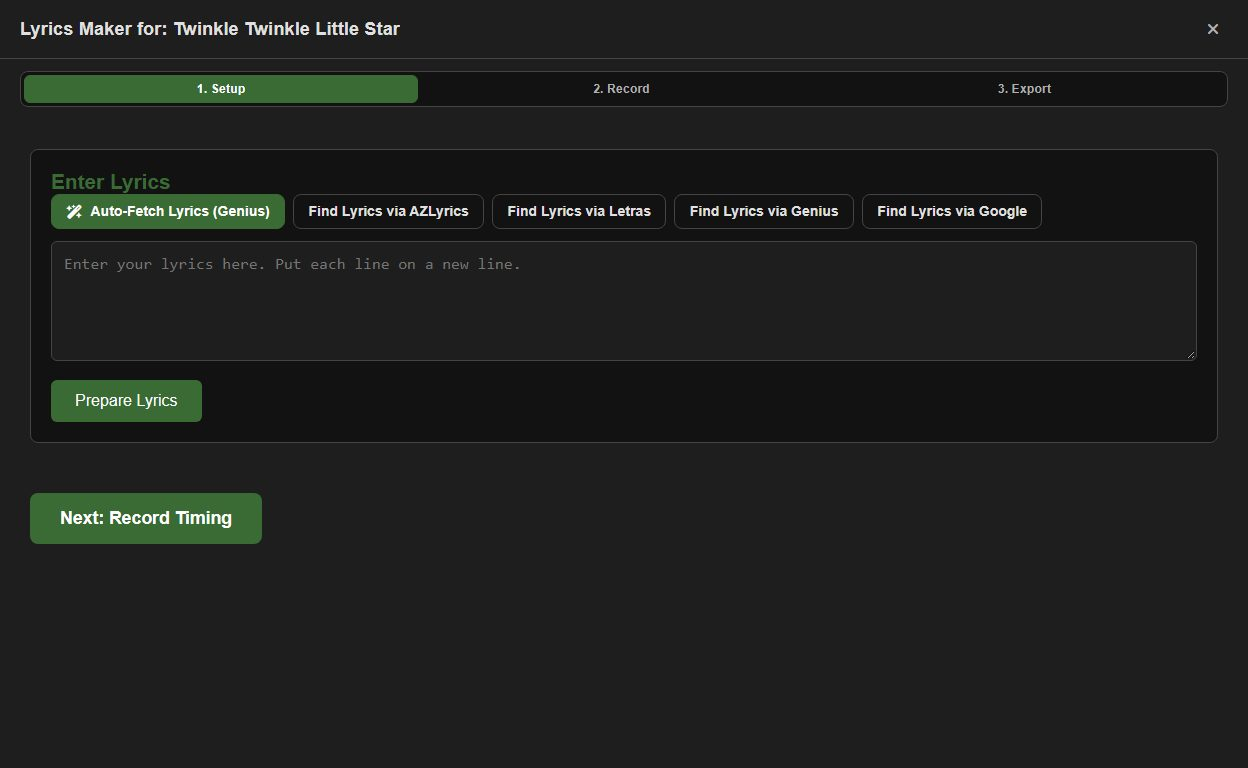
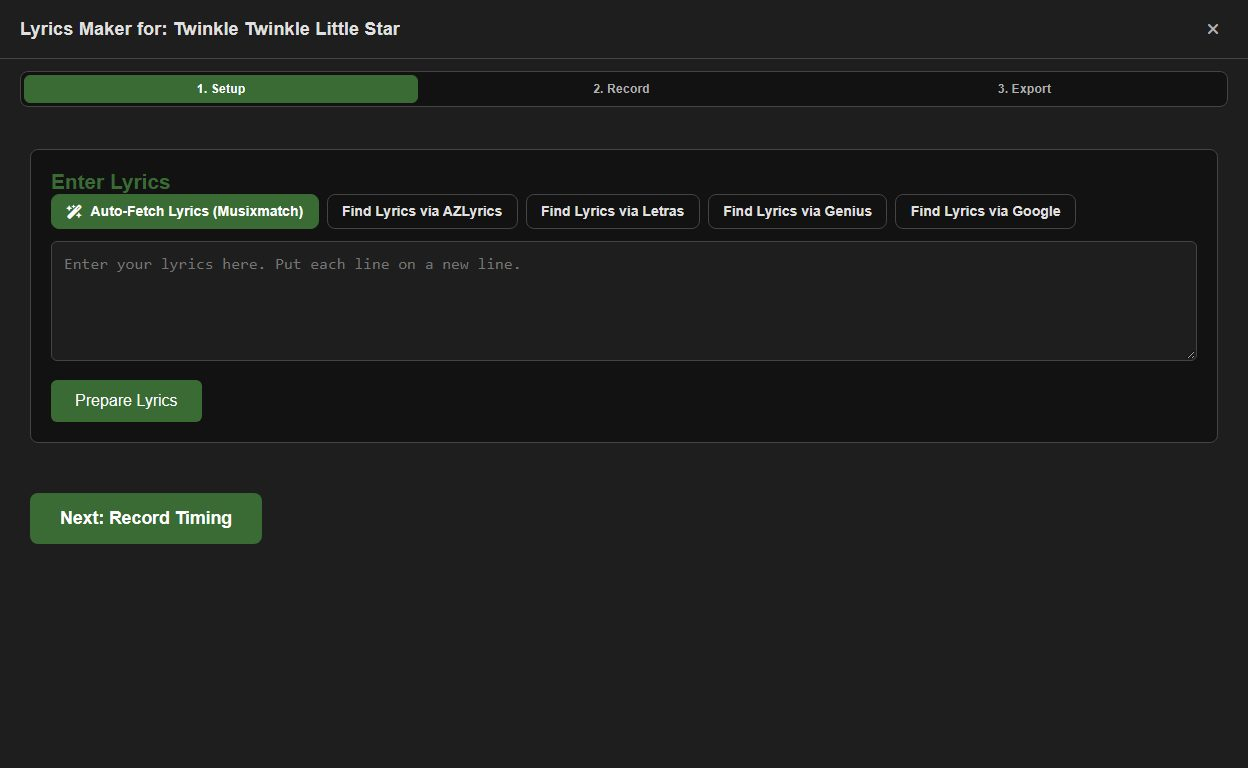
v76.5.0: Replace the broken Genius lyrics API with Musixmatch

Changed region(s): [[0.1562, 0.25, 0.8438, 0.3125]]

diff --git a/api/musixmatch.js b/api/musixmatch.js
@@ -1,0 +1,199 @@
+const KEYS = [process.env.RAPIDAPI_KEY_1, process.env.RAPIDAPI_KEY_2].filter(Boolean);
+const BENCH_MS = 60 * 60 * 1000;
+const benchedUntil = new Map();
+
+const RAPIDAPI_HOST = 'best-musixmatch-scraper-free-1000-calls.p.rapidapi.com';
+const FOUND_CACHE = 'public, s-maxage=604800, stale-while-revalidate=2592000';
+const MISSING_CACHE = 'public, s-maxage=86400';
+
+function keysInOrder() {
+  const now = Date.now();
+  const ready = KEYS.filter((key) => !(benchedUntil.get(key) > now));
+  return ready.concat(KEYS.filter((key) => !ready.includes(key)));
+}
+
+function bench(key) {
+  benchedUntil.set(key, Date.now() + BENCH_MS);
+}
+
+async function rapid(path, params) {
+  let lastError = KEYS.length === 0 ? 'No RapidAPI keys configured' : null;
+  for (const key of keysInOrder()) {
+    try {
+      const response = await fetch(`https://${RAPIDAPI_HOST}${path}?${new URLSearchParams(params)}`, {
+        headers: {
+          'X-RapidAPI-Key': key,
+          'X-RapidAPI-Host': RAPIDAPI_HOST,
+        },
+      });
+
+      if (response.status === 401 || response.status === 403 || response.status === 429) {
+        bench(key);
+        lastError = `Key rejected (status ${response.status})`;
+        continue;
+      }
+
+      if (response.headers.get('x-ratelimit-requests-remaining') === '0') {
+        bench(key);
+      }
+
+      return response;
+    } catch (error) {
+      lastError = error.message || 'Request failed';
+    }
+  }
+  throw new Error(lastError || 'All RapidAPI keys failed');
+}
+
+function cleanTitle(text) {
+  return text
+    .split('|')[0]
+    .replace(/[([{【].*?[)\]}】]/g, ' ')
+    .replace(/\s(?:feat|ft|featuring)\b.*$/i, ' ')
+    .replace(/\s+official\s+(?:music\s+|lyrics?\s+)?(?:video|audio|visualizer)\s*$/i, ' ')
+    .replace(/\s+/g, ' ')
+    .trim();
+}
+
+function cleanArtist(text) {
+  let name = text.replace(/\s*-\s*topic$/i, '').replace(/\s(?:feat|ft|featuring)\b.*$/i, '');
+  if (/vevo$/i.test(name)) {
+    name = name.replace(/vevo$/i, '').replace(/([a-z])([A-Z])/g, '$1 $2');
+  }
+  return name.replace(/\s+/g, ' ').trim();
+}
+
+function searchTerms(song, artist) {
+  const split = song.match(/^(.+?)\s+[-–—]\s+(.+)$/);
+  const title = cleanTitle(split ? split[2] : song) || song;
+  const by = cleanArtist(split ? split[1] : artist);
+  const whole = [cleanTitle(song).replace(/\s+[-–—]\s+/g, ' '), cleanArtist(artist)].filter(Boolean).join(' ');
+  return { title, artist: by, whole };
+}
+
+function normalize(text) {
+  return String(text || '')
+    .toLowerCase()
+    .normalize('NFKD')
+    .replace(/[̀-ͯ]/g, '')
+    .replace(/[^\p{L}\p{N}]+/gu, ' ')
+    .trim();
+}
+
+async function searchTracks(params) {
+  const response = await rapid('/search/tracks', {
+    ...params,
+    has_lyrics: 'true',
+    instrumental: 'exclude',
+    page_size: '5',
+  });
+  if (!response.ok) {
+    throw new Error(`Musixmatch search failed (status ${response.status})`);
+  }
+  const payload = await response.json();
+  return Array.isArray(payload?.tracks) ? payload.tracks : [];
+}
+
+function pickTrack(tracks, title) {
+  const want = normalize(title);
+  const usable = tracks.filter((track) => track?.id && track.has_lyrics !== false && !track.is_restricted);
+  return usable.find((track) => normalize(track.name) === want) || usable[0] || null;
+}
+
+async function fetchFromMusixmatch(terms) {
+  let tracks = await searchTracks(terms.artist ? { title: terms.title, artist: terms.artist } : { query: terms.title });
+  if (tracks.length === 0 && terms.artist && terms.whole) {
+    tracks = await searchTracks({ query: terms.whole });
+  }
+
+  const match = pickTrack(tracks, terms.title);
+  if (!match) {
+    return null;
+  }
+
+  const response = await rapid('/tracks/lyrics', { track: String(match.id) });
+  if (response.status === 404) {
+    return null;
+  }
+  if (!response.ok) {
+    throw new Error(`Musixmatch lyrics failed (status ${response.status})`);
+  }
+
+  const payload = await response.json();
+  const lyrics = typeof payload?.lyrics?.text === 'string' ? payload.lyrics.text.trim() : '';
+  if (!lyrics) {
+    return null;
+  }
+
+  const covers = match.album?.cover_images || {};
+  return {
+    lyrics,
+    title: match.name || terms.title,
+    artist: match.artist?.name || terms.artist || null,
+    albumArt: covers.size_500 || covers.size_350 || covers.size_800 || covers.size_100 || null,
+  };
+}
+
+async function fetchFromLyricsOvh(song, artist) {
+  if (!artist) {
+    return null;
+  }
+  const url = `https://api.lyrics.ovh/v1/${encodeURIComponent(artist)}/${encodeURIComponent(song)}`;
+  const response = await fetch(url);
+  if (!response.ok) {
+    return null;
+  }
+  const payload = await response.json();
+  const lyrics = typeof payload?.lyrics === 'string' && payload.lyrics.trim() ? payload.lyrics.trim() : null;
+  return lyrics ? { lyrics, title: song, artist, albumArt: null } : null;
+}
+
+export default async function handler(req, res) {
+  if (req.method !== 'GET') {
+    res.status(405).json({ status: 405, error: 'Method not allowed' });
+    return;
+  }
+
+  const song = (req.query.song || req.query.title || '').toString().trim();
+  const artist = (req.query.artist || '').toString().trim();
+
+  if (!song) {
+    res.status(400).json({ status: 400, error: 'Missing required "song" query parameter' });
+    return;
+  }
+
+  const terms = searchTerms(song, artist);
+  let lastError = null;
+  let missing = false;
+
+  try {
+    const found = await fetchFromMusixmatch(terms);
+    if (found) {
+      res.setHeader('Cache-Control', FOUND_CACHE);
+      res.status(200).json({ status: 200, ...found });
+      return;
+    }
+    missing = true;
+  } catch (error) {
+    lastError = error.message || 'Musixmatch lookup failed';
+  }
+
+  try {
+    const fallback = await fetchFromLyricsOvh(terms.title, terms.artist);
+    if (fallback) {
+      res.setHeader('Cache-Control', FOUND_CACHE);
+      res.status(200).json({ status: 200, ...fallback });
+      return;
+    }
+  } catch (error) {
+    lastError = error.message || lastError;
+  }
+
+  if (missing) {
+    res.setHeader('Cache-Control', MISSING_CACHE);
+    res.status(404).json({ status: 404, error: 'No lyrics found for this song' });
+    return;
+  }
+
+  res.status(502).json({ status: 502, error: lastError || 'All lyrics providers failed' });
+}

diff --git a/public/script.js b/public/script.js
@@ -7589,9 +7589,9 @@ class AdvancedMusicPlayer {
       const url = `https://www.google.com/search?q=${songName}${author}%20lyrics`;
       window.open(url, '_blank');
     };
-    const autoFetchGeniusLyrics = async () => {
-      const btn = document.getElementById('autoFetchGeniusLyricsBtn');
-      const loadingIndicator = document.getElementById('geniusFetchLoading');
+    const autoFetchLyrics = async () => {
+      const btn = document.getElementById('autoFetchLyricsBtn');
+      const loadingIndicator = document.getElementById('lyricsFetchLoading');
       const lyricsInput = document.getElementById('lyricsInput');
       if (!song.name) {
         this.showNotification('This song has no title to search with.', 'error');
@@ -7610,7 +7610,7 @@ class AdvancedMusicPlayer {
         if (song.author) {
           params.set('artist', song.author);
         }
-        const response = await fetch(`/api/genius?${params.toString()}`);
+        const response = await fetch(`/api/musixmatch?${params.toString()}`);
         const data = await response.json();
         if (!response.ok || !data.lyrics) {
           throw new Error(data.error || 'No lyrics found');
@@ -7618,9 +7618,9 @@ class AdvancedMusicPlayer {
         if (lyricsInput) {
           lyricsInput.value = this.decodeHtmlEntities(data.lyrics);
         }
-        this.showNotification('Lyrics fetched from Genius!', 'success');
+        this.showNotification('Lyrics fetched from Musixmatch!', 'success');
       } catch (error) {
-        console.error('Genius auto-fetch failed:', error);
+        console.error('Musixmatch auto-fetch failed:', error);
         this.showNotification('Could not auto-fetch lyrics. Try one of the manual search options below.', 'error');
       } finally {
         if (btn) {
@@ -7983,7 +7983,7 @@ class AdvancedMusicPlayer {
     document.getElementById('letrasBtn').addEventListener('click', searchLetras);
     document.getElementById('geniusBtn').addEventListener('click', searchGenius);
     document.getElementById('googleBtn').addEventListener('click', searchGoogle);
-    document.getElementById('autoFetchGeniusLyricsBtn')?.addEventListener('click', autoFetchGeniusLyrics);
+    document.getElementById('autoFetchLyricsBtn')?.addEventListener('click', autoFetchLyrics);
     document.addEventListener('keydown', handleKeyDown);
     this.lyricMakerCleanup = () => {
       document.getElementById('prepareLyricsBtn').removeEventListener('click', prepareLyrics);
@@ -7999,7 +7999,7 @@ class AdvancedMusicPlayer {
       document.getElementById('letrasBtn').removeEventListener('click', searchLetras);
       document.getElementById('geniusBtn').removeEventListener('click', searchGenius);
       document.getElementById('googleBtn').removeEventListener('click', searchGoogle);
-      document.getElementById('autoFetchGeniusLyricsBtn')?.removeEventListener('click', autoFetchGeniusLyrics);
+      document.getElementById('autoFetchLyricsBtn')?.removeEventListener('click', autoFetchLyrics);
       document.removeEventListener('keydown', handleKeyDown);
       tabHandlers.forEach(({element: element, handler: handler}) => {
         element.removeEventListener('click', handler);

diff --git a/public/introduction.html b/public/introduction.html
@@ -159,7 +159,7 @@
         </div>
         <div>
           <dt>Lyrics</dt>
-          <dd>Synced lyrics that highlight as the song plays. Fetch them from Genius or the video's YouTube captions, or time them yourself in the Lyrics Maker by tapping along and fine-tuning each line on a timeline.</dd>
+          <dd>Synced lyrics that highlight as the song plays. Fetch them from Musixmatch or the video's YouTube captions, or time them yourself in the Lyrics Maker by tapping along and fine-tuning each line on a timeline.</dd>
         </div>
         <div>
           <dt>Ways to show lyrics</dt>
@@ -244,7 +244,7 @@
     <section class="prose">
       <h2>Where your data lives</h2>
       <p>Your library, playlists, queue, lyrics, themes and statistics are stored in your browser for this site. There is no sign-in and no copy on a server. That also means clearing your browser's site data wipes it, so use <strong>Modify Library, Import/Export</strong> now and then to keep a backup. The export is plain text you can read and edit.</p>
-      <p>When you search, fetch lyrics, identify a song, download one or make a Mix Lab mix, the request goes to the service that does the work (YouTube, Genius, Deezer's music catalog, the Global library database and so on), usually through the site's own small API. Your library as a whole is never part of those requests: Mix Lab only sends the name and artist of the songs you pick.</p>
+      <p>When you search, fetch lyrics, identify a song, download one or make a Mix Lab mix, the request goes to the service that does the work (YouTube, Musixmatch, Deezer's music catalog, the Global library database and so on), usually through the site's own small API. Your library as a whole is never part of those requests: Mix Lab only sends the name and artist of the songs you pick.</p>
       <p>Songs play through YouTube's privacy-enhanced mode, so listening doesn't leave advertising or tracking cookies in your browser. The feedback form in Settings is a Google Form, which loads Google's own page when you open it.</p>
     </section>
 

diff --git a/public/index.html b/public/index.html
@@ -1252,16 +1252,16 @@ Another Playlist{
                <div class="lyrics-section">
                   <h2>Enter Lyrics</h2>
                   <div class="lyrics-search-buttons">
-                     <button id="autoFetchGeniusLyricsBtn" class="subtitles-import-auto-fetch-btn ui-btn ui-btn--primary">
-                     <i class="fas fa-wand-magic-sparkles"></i> Auto-Fetch Lyrics (Genius)
+                     <button id="autoFetchLyricsBtn" class="subtitles-import-auto-fetch-btn ui-btn ui-btn--primary">
+                     <i class="fas fa-wand-magic-sparkles"></i> Auto-Fetch Lyrics (Musixmatch)
                      </button>
                      <button id="azlyricsBtn" class="lyrics-search-btn ui-btn">Find Lyrics via AZLyrics</button>
                      <button id="letrasBtn" class="lyrics-search-btn ui-btn">Find Lyrics via Letras</button>
                      <button id="geniusBtn" class="lyrics-search-btn ui-btn">Find Lyrics via Genius</button>
                      <button id="googleBtn" class="lyrics-search-btn ui-btn">Find Lyrics via Google</button>
                   </div>
-                  <div id="geniusFetchLoading" class="subtitles-import-loading" style="display: none;">
-                     <i class="fas fa-spinner fa-spin"></i> Fetching lyrics from Genius...
+                  <div id="lyricsFetchLoading" class="subtitles-import-loading" style="display: none;">
+                     <i class="fas fa-spinner fa-spin"></i> Fetching lyrics from Musixmatch...
                   </div>
                   <textarea id="lyricsInput" placeholder="Enter your lyrics here. Put each line on a new line."></textarea>
                   <button id="prepareLyricsBtn">Prepare Lyrics</button>

diff --git a/public/tutorial.html b/public/tutorial.html
@@ -405,7 +405,7 @@
           <h2>Timing your own lyrics</h2>
           <p>The Lyrics Maker works in three steps.</p>
           <ol>
-            <li><strong>Setup</strong>: paste the words, or use <strong>Auto-Fetch Lyrics (Genius)</strong>. Buttons beside it search AZLyrics, Letras, Genius and Google for you. Then press Prepare Lyrics.</li>
+            <li><strong>Setup</strong>: paste the words, or use <strong>Auto-Fetch Lyrics (Musixmatch)</strong>. Buttons beside it search AZLyrics, Letras, Genius and Google for you. Then press Prepare Lyrics.</li>
             <li><strong>Record</strong>: press Start Recording, then <strong>Mark Line</strong> the moment each line begins. <strong>Redo</strong> steps back a line and rewinds the song to match, and <strong>Skip</strong> moves past a line. Every marked line appears on the timeline above the list, where you can drag its marker to fine-tune the timing.</li>
             <li><strong>Export</strong>: check the result, then Save to Song or copy it.</li>
           </ol>

diff --git a/public/changelog.md b/public/changelog.md
@@ -797,3 +797,4 @@ The control bar now stays at the bottom while the Global library is open, so you
 Mix Lab can now keep a whole mix: Import as playlist adds every song in it to your library and saves them as a new playlist named after the mix, in the same order, with a live count while it works. Songs you already have are reused instead of added twice, songs that can't be found on YouTube are left out and counted, and importing another mix with the same name saves it as "Mix 2" v76.3.0
 Behind-the-scenes speed and reliability work: repeat YouTube searches, lyrics lookups and music-catalog requests are now answered from the site's cache instead of using up API quota (the same search now always shares one cached answer, and a key that has run out of quota is skipped for the rest of the session). The queue no longer leaks memory each time it is opened, and dragging a song in the queue can no longer move it more than once after the queue has been edited. The database library is pinned to an exact version so it is cached for a year, the player connects to YouTube ahead of time, and routine messages no longer fill the browser console v76.4.0
 Song recognition, MP3 downloads and lyrics lookups now switch to the backup API key straight away once the first one runs out for the month, instead of trying the used-up key first on every request (recognition no longer uploads your clip twice). A key that is used up or rejected is set aside for an hour and then tried again, a song with no lyrics no longer spends the backup key on a second identical lookup, and the "quota exhausted" message now only appears when both keys really are out v76.4.1
+Auto-Fetch Lyrics in the Lyrics Maker now gets its words from Musixmatch instead of the old Genius service, which had stopped working. It understands raw YouTube titles like "Artist - Song (Official Video)" and channel names like "ArtistVEVO" or "Artist - Topic", picks the original recording over remixes and covers, skips songs whose lyrics Musixmatch can't show, and still falls back to lyrics.ovh if nothing is found. The tutorial and introduction pages now say Musixmatch too v76.5.0

diff --git a/CLAUDE.md b/CLAUDE.md
@@ -16,7 +16,7 @@ There is no bundler, no package.json, no test suite. Edit the file, reload the p
 | `public/sw.js` | Service worker. `STATIC_ASSETS` must list any new top-level asset; `NETWORK_ONLY_PREFIXES` lists paths it must never cache |
 | `public/introduction.html`, `public/tutorial.html` | Static SEO pages served at `/introduction` and `/tutorial`, styled by `public/learn/learn.css`, screenshots in `public/learn/shots/` |
 | `public/guide/` | Guide mode (`guide.js` module, `guide.json` content, `guide.css`). Fetched only on Alt+Shift+G or `/?guide`, never cached |
-| `api/` | Vercel serverless functions (`youtube`, `deezer`, `genius`, `shazam`, `download`, `count`, `gemini`, `song/[videoId]`, `youtube-iframe-api`) |
+| `api/` | Vercel serverless functions (`youtube`, `deezer`, `musixmatch`, `shazam`, `download`, `count`, `gemini`, `song/[videoId]`, `youtube-iframe-api`) |
 | `public/llms.txt` | Plain-text summary of the site for AI assistants; keep it in step with `introduction.html` |
 | `vercel.json` | Rewrites + the immutable `Cache-Control` regex for hashed-forever assets |
 | `CODEMAP.md` | **Generated** index of every method, element alias and dialog — read this before searching `script.js` |
@@ -54,7 +54,7 @@ There is no bundler, no package.json, no test suite. Edit the file, reload the p
 
 YouTube search quota is the scarcest resource, so repeats are served from Vercel's edge:
 
-- `api/youtube.js`, `api/deezer.js` and `api/genius.js` set `s-maxage` on successful
+- `api/youtube.js`, `api/deezer.js` and `api/musixmatch.js` set `s-maxage` on successful
   responses only. Errors, quota failures and Deezer's `artist_radio` (random on purpose, it
   powers Mix Lab's New picks) are never cached. Keep that split when adding a type.
 - The edge cache keys on the full URL, so a cacheable request must be deterministic.

diff --git a/CODEMAP.md b/CODEMAP.md
@@ -12,8 +12,8 @@ not hold what this file claims, regenerate, or `grep -n "  methodName("`.
 
 | Source | sha256 (first 12) | Lines |
 |---|---|---|
-| `public/script.js` | `d576e3b2b877` | 17763 |
-| `public/index.html` | `50488c29dc03` | 1527 |
+| `public/script.js` | `36ef7a191811` | 17763 |
+| `public/index.html` | `a635c95c3ea5` | 1527 |
 | `public/script/settings.js` | `3bc48cfe84cc` | 560 |
 | `public/karaoke-player.js` | `3e6bb16779a4` | 682 |
 | `public/karaoke-encoder.js` | `d277db62d9e9` | 147 |

diff --git a/ARCHITECTURE.md b/ARCHITECTURE.md
@@ -33,7 +33,7 @@ This document explains the structure and main components of **SweetEscape Music 
   `update-billboard.js` is run by a GitHub Action to refresh the Supabase Hot 100 table.
 
 - **api/**  
-  Vercel serverless functions: `youtube`, `deezer`, `genius`, `shazam`, `download`,
+  Vercel serverless functions: `youtube`, `deezer`, `musixmatch`, `shazam`, `download`,
   `count`, `gemini` and `song/[videoId]` (which renders the Open Graph share page).
 
 ---
